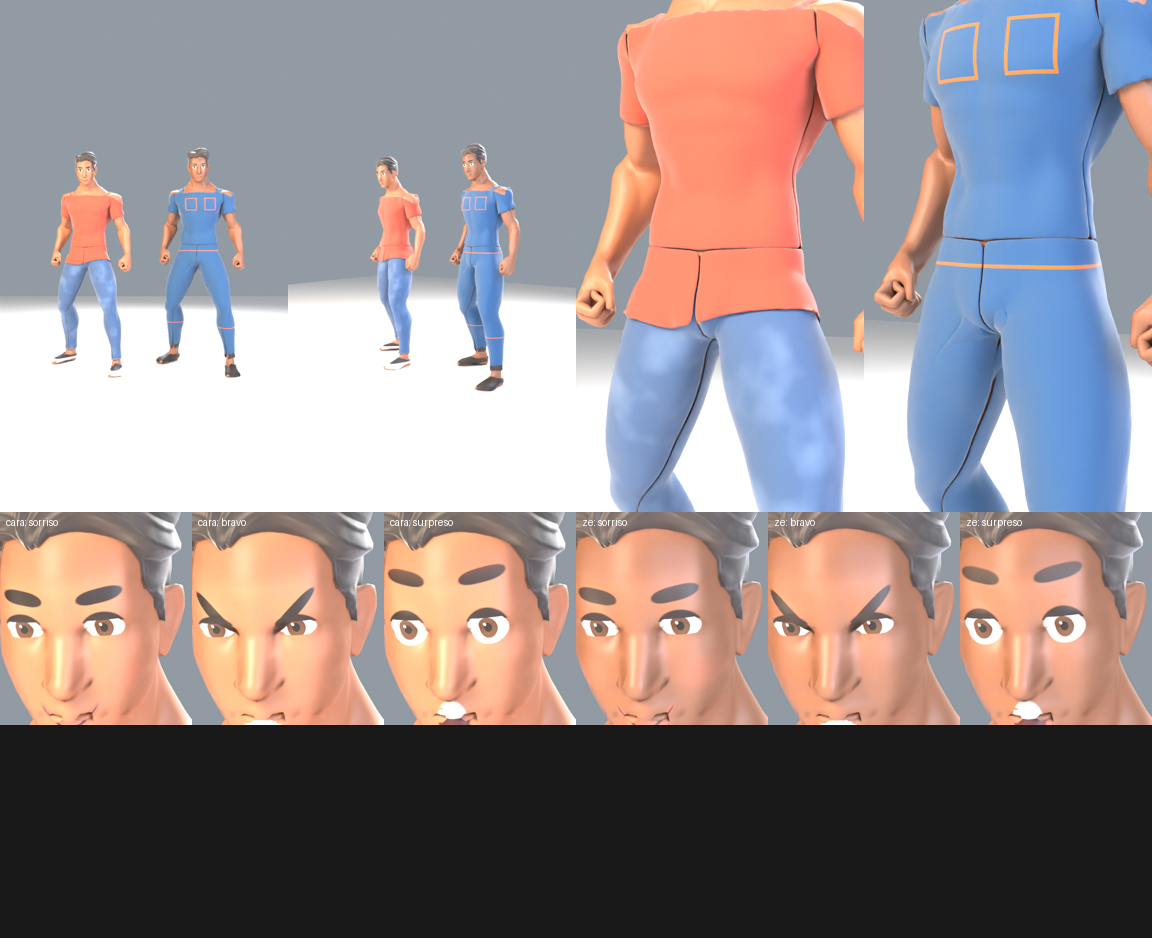
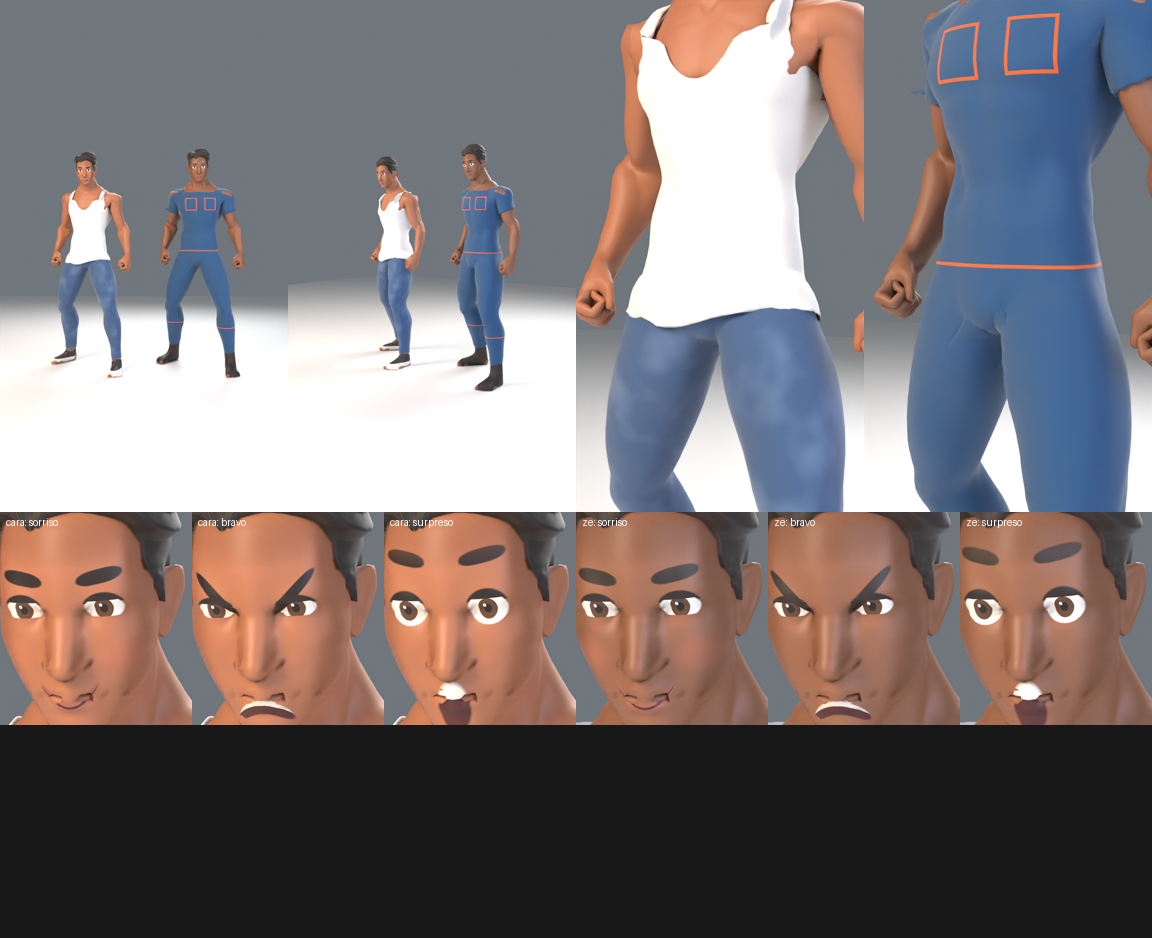
Checkpoint: personagem_q em andamento (agente)
Claude-Session: https://claude.ai/code/session_01LTuGaoNMB16qvfW22NeZiH

diff --git a/motor3d/personagem_q.py b/motor3d/personagem_q.py
@@ -196,7 +196,7 @@ def _afinar(o):
     o.data.update()
 
 
-def _casca(corpo, nome, dentro, desloc, mat, cortes=(), espessura=0.0035, suavizar=0, sub=1):
+def _casca(corpo, nome, dentro, desloc, mat, cortes=(), espessura=0.0035, suavizar=0, sub=1, projetar=None):
     """Roupa = cópia do corpo com só as faces de `dentro(x,y,z)`, empurrada `desloc(x,y,z)` (m) pela normal; as
     bordas abertas são niveladas nos planos `cortes` [("z", 0.99), ("x", 0.36)...] (borda reta, sem serrilhado) e
     a espessura vem do Solidify. Mesmos grupos de vértices + Armature do corpo → deforma igual."""
@@ -217,7 +217,11 @@ def _casca(corpo, nome, dentro, desloc, mat, cortes=(), espessura=0.0035, suaviz
     novo = {v: v.co + v.normal * desloc(*v.co) for v in bm.verts}
     for v, c in novo.items():
         v.co = c
-    for v in bm.verts:
+    borda = [v for v in bm.verts if v.is_boundary]
+    for v in borda:
+        if projetar is not None:
+            v.co = projetar(v.co.copy())
+            continue
         if v.is_boundary:
             melhor = None
             for eixo, val in cortes:
@@ -229,6 +233,15 @@ def _casca(corpo, nome, dentro, desloc, mat, cortes=(), espessura=0.0035, suaviz
             if melhor:
                 _, i, val = melhor
                 v.co[i] = math.copysign(val, v.co[i]) if i == 0 else val
+    # borda lisa: média com os vizinhos de borda (tira o serrilhado das faces cortadas)
+    viz = {v: [e.other_vert(v) for e in v.link_edges if e.is_boundary] for v in borda}
+    for _ in range(4):
+        novo = {v: (v.co * 2 + sum((u.co for u in viz[v]), Vector())) / (2 + len(viz[v])) for v in borda if viz[v]}
+        for v, c in novo.items():
+            v.co = c
+        if projetar is not None:
+            for v in borda:
+                v.co = projetar(v.co.copy())
     bm.to_mesh(o.data)
     bm.free()
     o.data.materials.clear()
@@ -355,7 +368,7 @@ def _rosto(Q, cores, expressao="neutro"):
     ref = bpy.data.objects.new(nome + "_ref_rosto", None)
     for c in corpo.users_collection:
         c.objects.link(ref)
-    ref.matrix_world = Matrix.LocRotScale(Vector((0, 0.0, 1.681)), None, Vector((0.95, 1.0, 1.17)))
+    ref.matrix_world = Matrix.LocRotScale(Vector((0, 0.0, 1.682)), None, Vector((0.95, 1.0, 0.97)))
     bpy.context.view_layer.update()
     _no_osso(ref, arm, "Head")
     _no_osso(ob, arm, "Head")
@@ -423,11 +436,11 @@ def personagem(tipo="cara", nome=None, cores=None, peca=None):
     if C["roupa"] == "civil":
         jeans = _tecido(nome + "_jeans", C["calca"], escala=520, tipo="brim")
         _costura(jeans, [("ret", 0.035, 0.135, 0.845, 0.945, 1),      # bolsos de trás
-                         ("hz", 0.955, 0), ("hz", 0.115, 0)], cor="#C9963A")
+                         ("hz", 0.94, 0), ("hz", 0.115, 0)], cor="#C9963A")
         R.append(_casca(corpo, nome + "_calca",
-                        lambda x, y, z: 0.105 < z < 0.995 and abs(x) < 0.3,
-                        lambda x, y, z: 0.011 if z > 0.958 else (0.012 if z < 0.17 else 0.0075),
-                        jeans, cortes=[("z", 0.995), ("z", 0.105)], espessura=0.004))
+                        lambda x, y, z: 0.105 < z < 0.975 and abs(x) < 0.3,
+                        lambda x, y, z: 0.010 if z > 0.94 else (0.012 if z < 0.17 else 0.0075),
+                        jeans, cortes=[("z", 0.975), ("z", 0.105)], espessura=0.004))
         cam = _tecido(nome + "_camisa", C["camisa"], escala=700, contraste=0.08)
         if C["peca"] == "regata":
             def tem(x, y, z):
@@ -439,14 +452,28 @@ def personagem(tipo="cara", nome=None, cores=None, peca=None):
                 corte = (1.39 + 0.13 * (ax / 0.1) ** 2) if y < 0.03 else (1.47 + 0.05 * (ax / 0.1) ** 2)
                 return z < corte
             cortes = [("z", 0.925)]
+
+            def projetar(c):
+                ax, sx = abs(c.x), (1 if c.x >= 0 else -1)
+                if c.z < 1.1:
+                    c.z = 0.925
+                    return c
+                zc = (1.39 + 0.13 * (min(ax, 0.1) / 0.1) ** 2) if c.y < 0.03 else (1.47 + 0.05 * (min(ax, 0.1) / 0.1) ** 2)
+                xc = 0.205 - (c.z - 1.30) * 0.30
+                if ax < 0.095 and abs(c.z - zc) < 0.05:
+                    c.z = zc                          # gola em U
+                elif c.z > 1.28 and ax > 0.1:
+                    c.x = sx * max(xc, 0.1)           # cava
+                return c
         else:
+            projetar = None
             def tem(x, y, z):
                 ax = abs(x)
                 return 0.925 < z < (1.505 if y < 0.03 else 1.525) and ax < 0.35
             cortes = [("z", 0.925), ("x", 0.35), ("z", 1.505)]
         R.append(_casca(corpo, nome + "_camisa", tem,
-                        lambda x, y, z: 0.0135 if z < 0.985 else (0.012 if abs(x) > 0.3 else 0.008),
-                        cam, cortes=cortes, espessura=0.003))
+                        lambda x, y, z: 0.021 if z < 0.985 else (0.012 if abs(x) > 0.3 else 0.008),
+                        cam, cortes=cortes, espessura=0.003, projetar=projetar))
         R.append(_casca(corpo, nome + "_tenis", lambda x, y, z: z < 0.125,
                         lambda x, y, z: 0.013, sapato, cortes=[("z", 0.125)], espessura=0.004, suavizar=12, sub=1))
         _costura(sapato, [("hz", 0.022, 0)], cor=C["sola"], largura=0.044)    # sola clara (faixa até 2,2 cm)

diff --git a/videos/_animacao_pronta/personagens_q.py b/videos/_animacao_pronta/personagens_q.py
@@ -69,10 +69,10 @@ lin1 = [ab(out[0]), ab(out[1]), ab(out[2]), ab(out[3])]
 rost = []
 for nm in ("cara", "ze"):
     for exp in ("sorriso", "bravo", "surpreso"):
-        im = Image.open(os.path.join(AQUI, f"_pq_rosto_{nm}_{exp}.png")).convert("RGB").crop((0, 120, 576, 760)).resize((192, 213))
+        im = Image.open(os.path.join(AQUI, f"_pq_rosto_{nm}_{exp}.png")).convert("RGB").crop((0, 250, 576, 890)).resize((192, 213))
         ImageDraw.Draw(im).text((6, 4), f"{nm}: {exp}", fill=(255, 255, 255))
         rost.append(im)
-folha = Image.new("RGB", (W * 4, 512 + 213 * 2), (24, 24, 24))
+folha = Image.new("RGB", (W * 4, 512 + 213), (24, 24, 24))
 for k, im in enumerate(lin1):
     folha.paste(im, (k * W, 0))
 for k, im in enumerate(rost):
